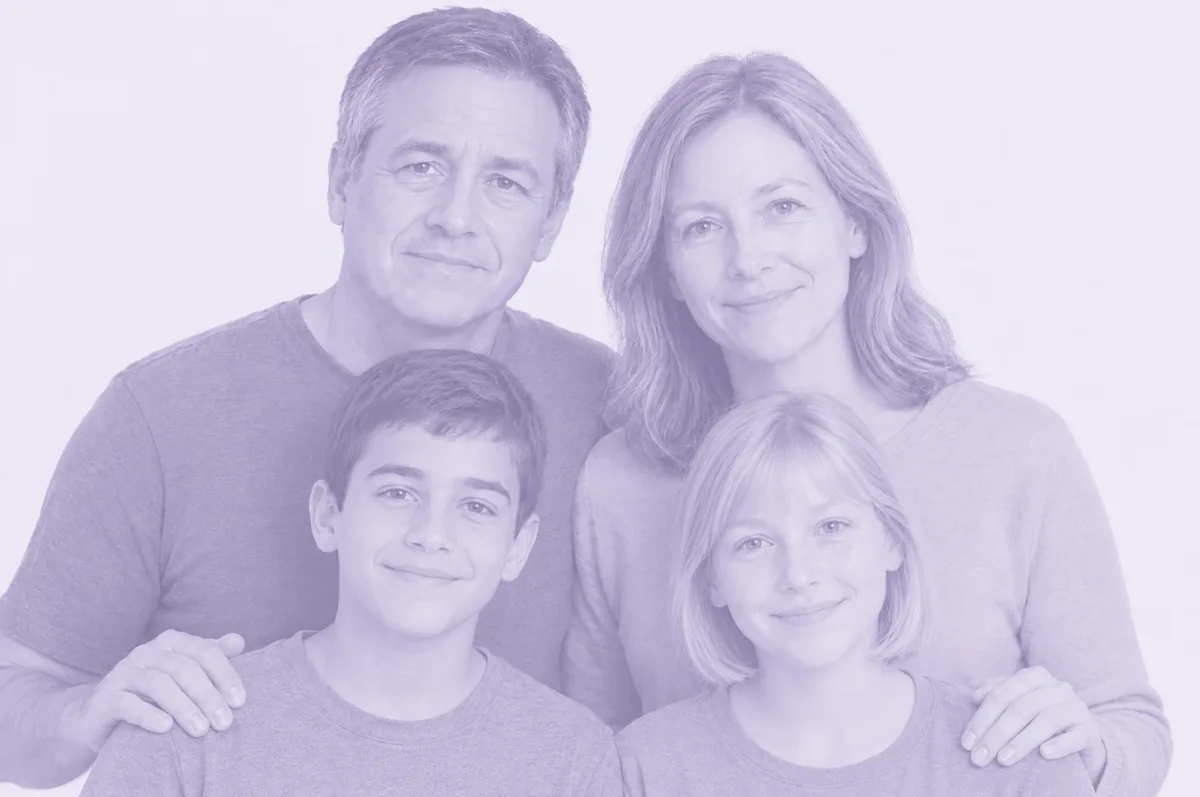
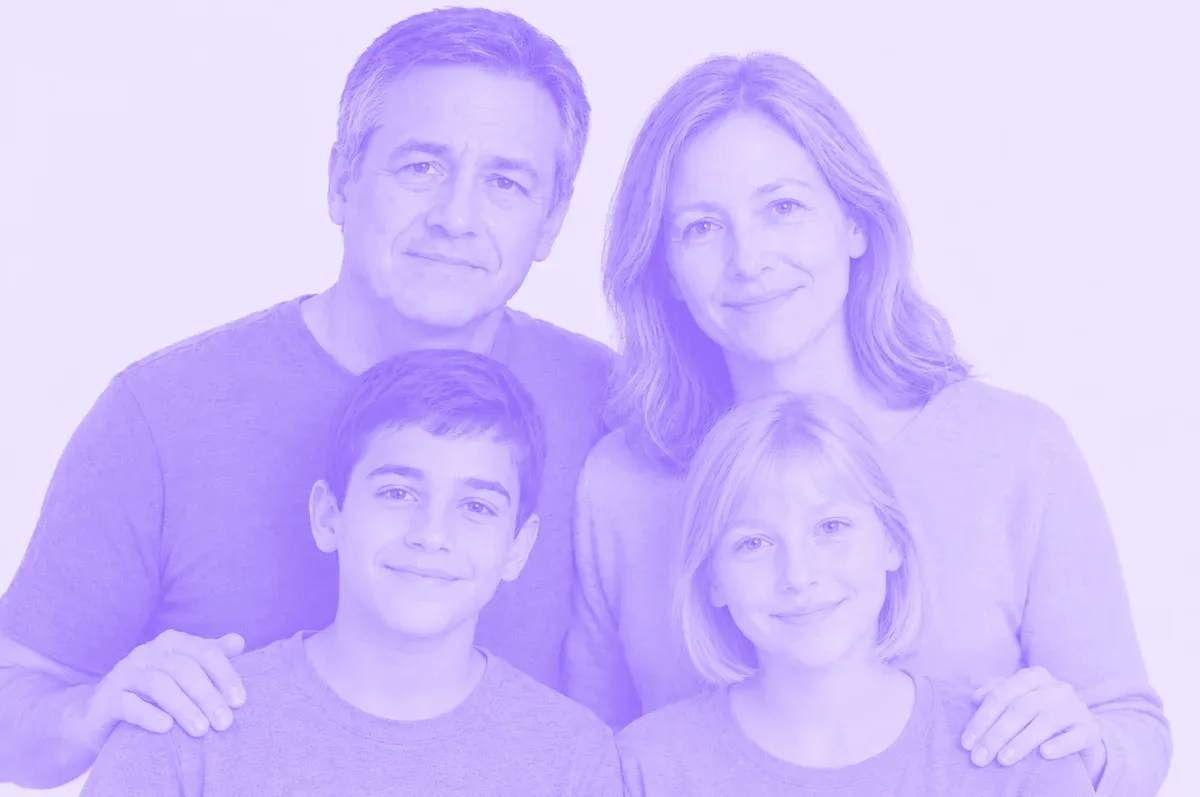
Site: Life360 references use Life360's real app purples

diff --git a/for-grown-up-families.html b/for-grown-up-families.html
@@ -10,19 +10,19 @@
   <meta property="og:description" content="Your kids grew up. Looop sends a heads-up when a Loved One's day looks unusual, so you can trust them more and still know when to call.">
   <meta property="og:site_name" content="Looop">
   <meta property="og:url" content="https://www.thelooopapp.com/for-grown-up-families.html">
-  <meta property="og:image" content="https://www.thelooopapp.com/images/og-grown-up-families.jpg">
+  <meta property="og:image" content="https://www.thelooopapp.com/images/og-grown-up-families.jpg?v=2">
   <meta property="og:image:width" content="1200">
   <meta property="og:image:height" content="630">
   <meta property="og:image:alt" content="Like360 but for Adults. Your kids grew up. Your family app should grow up too. Looop shows everyone having a Typical Day.">
   <meta name="twitter:card" content="summary_large_image">
-  <meta name="twitter:image" content="https://www.thelooopapp.com/images/og-grown-up-families.jpg">
+  <meta name="twitter:image" content="https://www.thelooopapp.com/images/og-grown-up-families.jpg?v=2">
   <link rel="stylesheet" href="styles.css?v=1019n">
   <link rel="icon" type="image/png" href="images/logo_small.png">
   <link href="https://fonts.googleapis.com/css2?family=Plus+Jakarta+Sans:wght@400;500;600;700;800&family=Albert+Sans:wght@800;900&display=swap" rel="stylesheet">
   <style>
     /* Hero lockup in the style of a map-first family app, then the Looop reveal */
     .grown-hero {
-      background: #E4D7FB;
+      background: #F2EAFF;
       padding: 117px 20px 26px;
       text-align: center;
     }
@@ -31,12 +31,12 @@
       font-weight: 900;
       line-height: 0.85;
       letter-spacing: -0.035em;
-      color: #762EEB;
+      color: #8653FF;
       margin: 0 auto;
     }
     .grown-hero h1 span { display: block; }
     .grown-hero .l1 { font-size: clamp(64px, 10vw, 106px); }
-    .grown-hero .l2 { font-size: clamp(50px, 7.8vw, 82px); color: #fff; }
+    .grown-hero .l2 { font-size: clamp(50px, 7.8vw, 82px); color: #29004E; }
     .grown-hero .l3 { font-size: clamp(64px, 10vw, 106px); }
 
     .grown-reveal {
@@ -279,7 +279,7 @@
         <p>Most family apps were built for parents of young kids. Looop is built for <strong>all your Loved Ones across cities, states, and&nbsp;countries.</strong></p>
         <a class="fb-store" href="https://apps.apple.com/us/app/looop-keep-loved-ones-safe/id6760598111" aria-label="Download Looop on the App Store"><img src="images/appstore-wordmark-white.png" alt="" width="124" height="31"></a>
       </div>
-      <img class="fb-prints" src="images/home/family-prints.webp" width="1734" height="759" loading="lazy" alt="Two printed photos. Behind, in faded purple and labeled &quot;Your old Family Tracking App&quot;: a mother and father with their two preteen children. In front, in full color and labeled &quot;Looop: Keeping your Adult Family Safe&quot;: ten adults across three generations laughing together in a backyard on a fall afternoon.">
+      <img class="fb-prints" src="images/home/family-prints.webp?v=2" width="1734" height="759" loading="lazy" alt="Two printed photos. Behind, in faded purple and labeled &quot;Your old Family Tracking App&quot;: a mother and father with their two preteen children. In front, in full color and labeled &quot;Looop: Keeping your Adult Family Safe&quot;: ten adults across three generations laughing together in a backyard on a fall afternoon.">
     </div>
   </section>
 

diff --git a/home.css b/home.css
@@ -188,12 +188,12 @@
   .nav img.wordmark { height: 33px; position: relative; top: 3px; }
   @media (max-width: 360px) { .nav img.wordmark { display: none; } }
 
-  /* Callouts to the "Like360 but for Adults" page (for-grown-up-families.html), in a purple that echoes that page's hero */
-  .grown-banner { display: flex; align-items: center; justify-content: space-between; gap: 20px; margin-block: 72px; padding: 28px 32px; border-radius: 22px; background: #762EEB; color: #fff; text-decoration: none; }
+  /* Callouts to the "Like360 but for Adults" page (for-grown-up-families.html), in Life360's app purples: #8653FF main, #F2EAFF light, #29004E dark */
+  .grown-banner { display: flex; align-items: center; justify-content: space-between; gap: 20px; margin-block: 72px; padding: 28px 32px; border-radius: 22px; background: #8653FF; color: #fff; text-decoration: none; }
   .grown-banner .gb-title { font-family: 'Albert Sans', var(--font); font-weight: 900; font-size: clamp(24px, 3vw, 36px); line-height: 1; letter-spacing: -0.03em; color: #fff; }
-  .grown-banner .gb-sub { margin-top: 8px; font-size: 20.4px; font-weight: 700; color: #E4D7FB; }
-  .grown-banner .gb-cta { flex: none; padding: 10px 18px; border-radius: 999px; background: #fff; color: #4B1BA6; font-size: 15px; font-weight: 800; white-space: nowrap; }
-  .grown-banner:hover .gb-cta { background: #F3EDFF; }
+  .grown-banner .gb-sub { margin-top: 8px; font-size: 20.4px; font-weight: 700; color: #F2EAFF; }
+  .grown-banner .gb-cta { flex: none; padding: 10px 18px; border-radius: 999px; background: #fff; color: #29004E; font-size: 15px; font-weight: 800; white-space: nowrap; }
+  .grown-banner:hover .gb-cta { background: #F2EAFF; }
   .grown-banner--wrap { margin-top: 0; }
   .grown-banner--wrap .gb-title { line-height: 1.05; }
   .grown-banner--wrap .gb-sub { font-size: 18px; }

diff --git a/index.html b/index.html
@@ -18,7 +18,7 @@
   <link rel="preconnect" href="https://fonts.googleapis.com">
   <link rel="preconnect" href="https://fonts.gstatic.com" crossorigin>
   <link href="https://fonts.googleapis.com/css2?family=Plus+Jakarta+Sans:wght@500;600;700;800&family=Albert+Sans:wght@900&display=swap" rel="stylesheet">
-  <link rel="stylesheet" href="home.css?v=1019i">
+  <link rel="stylesheet" href="home.css?v=1019j">
   <link rel="stylesheet" href="map.css?v=1018">
   <link rel="stylesheet" href="footer.css?v=1019">
   <script type="application/ld+json">{"@context": "https://schema.org", "@graph": [{"@type": "Organization", "name": "LooopApp LLC", "alternateName": "Looop", "url": "https://www.thelooopapp.com/", "logo": "https://www.thelooopapp.com/images/press/looop-icon-1024.png", "email": "support@thelooopapp.com", "address": {"@type": "PostalAddress", "addressLocality": "Austin", "addressRegion": "TX", "addressCountry": "US"}, "@id": "https://www.thelooopapp.com/#org"}, {"@type": "MobileApplication", "name": "Looop", "operatingSystem": "iOS", "applicationCategory": "LifestyleApplication", "description": "Looop is a safety notifications app for families who care from a distance. It brings holistic family care to the people you love: weather, crime, spending, health, activity, and the shape of each day come together in one answer, so families know when to check in.", "url": "https://apps.apple.com/us/app/looop-keep-loved-ones-safe/id6760598111", "publisher": {"@id": "https://www.thelooopapp.com/#org"}}]}</script>

diff --git a/looop-vs-life360.html b/looop-vs-life360.html
@@ -113,7 +113,7 @@
         <p>Most family apps were built for parents of young kids. Looop is built for <strong>all your Loved Ones across cities, states, and&nbsp;countries.</strong></p>
         <a class="fb-store" href="https://apps.apple.com/us/app/looop-keep-loved-ones-safe/id6760598111" aria-label="Download Looop on the App Store"><img src="images/appstore-wordmark-white.png" alt="" width="124" height="31"></a>
       </div>
-      <img class="fb-prints" src="images/home/family-prints.webp" width="1734" height="759" loading="lazy" alt="Two printed photos. Behind, in faded purple and labeled &quot;Your old Family Tracking App&quot;: a mother and father with their two preteen children. In front, in full color and labeled &quot;Looop: Keeping your Adult Family Safe&quot;: ten adults across three generations laughing together in a backyard on a fall afternoon.">
+      <img class="fb-prints" src="images/home/family-prints.webp?v=2" width="1734" height="759" loading="lazy" alt="Two printed photos. Behind, in faded purple and labeled &quot;Your old Family Tracking App&quot;: a mother and father with their two preteen children. In front, in full color and labeled &quot;Looop: Keeping your Adult Family Safe&quot;: ten adults across three generations laughing together in a backyard on a fall afternoon.">
     </div>
   </section>
 

diff --git a/CHANGELOG.md b/CHANGELOG.md
@@ -2,6 +2,16 @@
 
 Changes to thelooopapp.com, newest first. This file is not published (see `_config.yml`).
 
+## 2026-10-19 19:56 CT
+
+### Design
+- **Life360 references use Life360's real app purples**, sampled from the owner's screenshots of the Life360 app: main `#8653FF` (splash screen and active tab), light `#F2EAFF` (pill and icon backgrounds), dark `#29004E` (headings). They replace `#762EEB`, `#E4D7FB`, `#4B1BA6`, and `#F3EDFF`, which came from Life360's website buttons and were darker and bluer than the app.
+  - **"Like360 but for Adults" hero** (`for-grown-up-families.html`): background `#F2EAFF`, "Like360" and "Adults" in `#8653FF`. "but for" is now dark purple `#29004E`, because white disappears on the paler background.
+  - **Both home page banners** (`home.css`, now `?v=1019j`): background `#8653FF`, sub lines `#F2EAFF`, button text `#29004E`, button hover `#F2EAFF`.
+  - **"Your family grew up" photo band** (Looop vs. Life360 and For grown-up families): the faded "Your old Family Tracking App" photo (`images/home/family-life360.webp`) is re-toned as a duotone from a soft `#8653FF` to `#F2EAFF`, replacing the old muted lavender. Its label pill is now `#29004E` (was `#4B3A7A`). The composite `images/home/family-prints.webp` is rebuilt at the same 1734x759 with the same layout, tilt, and shadows, and is linked as `?v=2`.
+  - **Link preview card** `images/og-grown-up-families.jpg` is re-rendered in the new purples, and `og:image` and `twitter:image` are now `?v=2`.
+- Left as is because they're Looop's colors, not Life360's: the `#7B61D9` "Alerts, Not Tracking" privacy icon, the comparison page's gray Life360 column and `#13083E` text, and the deliberately dull `#9A8AC4` "then" icons.
+
 ## 2026-10-19 18:53 CT
 
 ### Design
